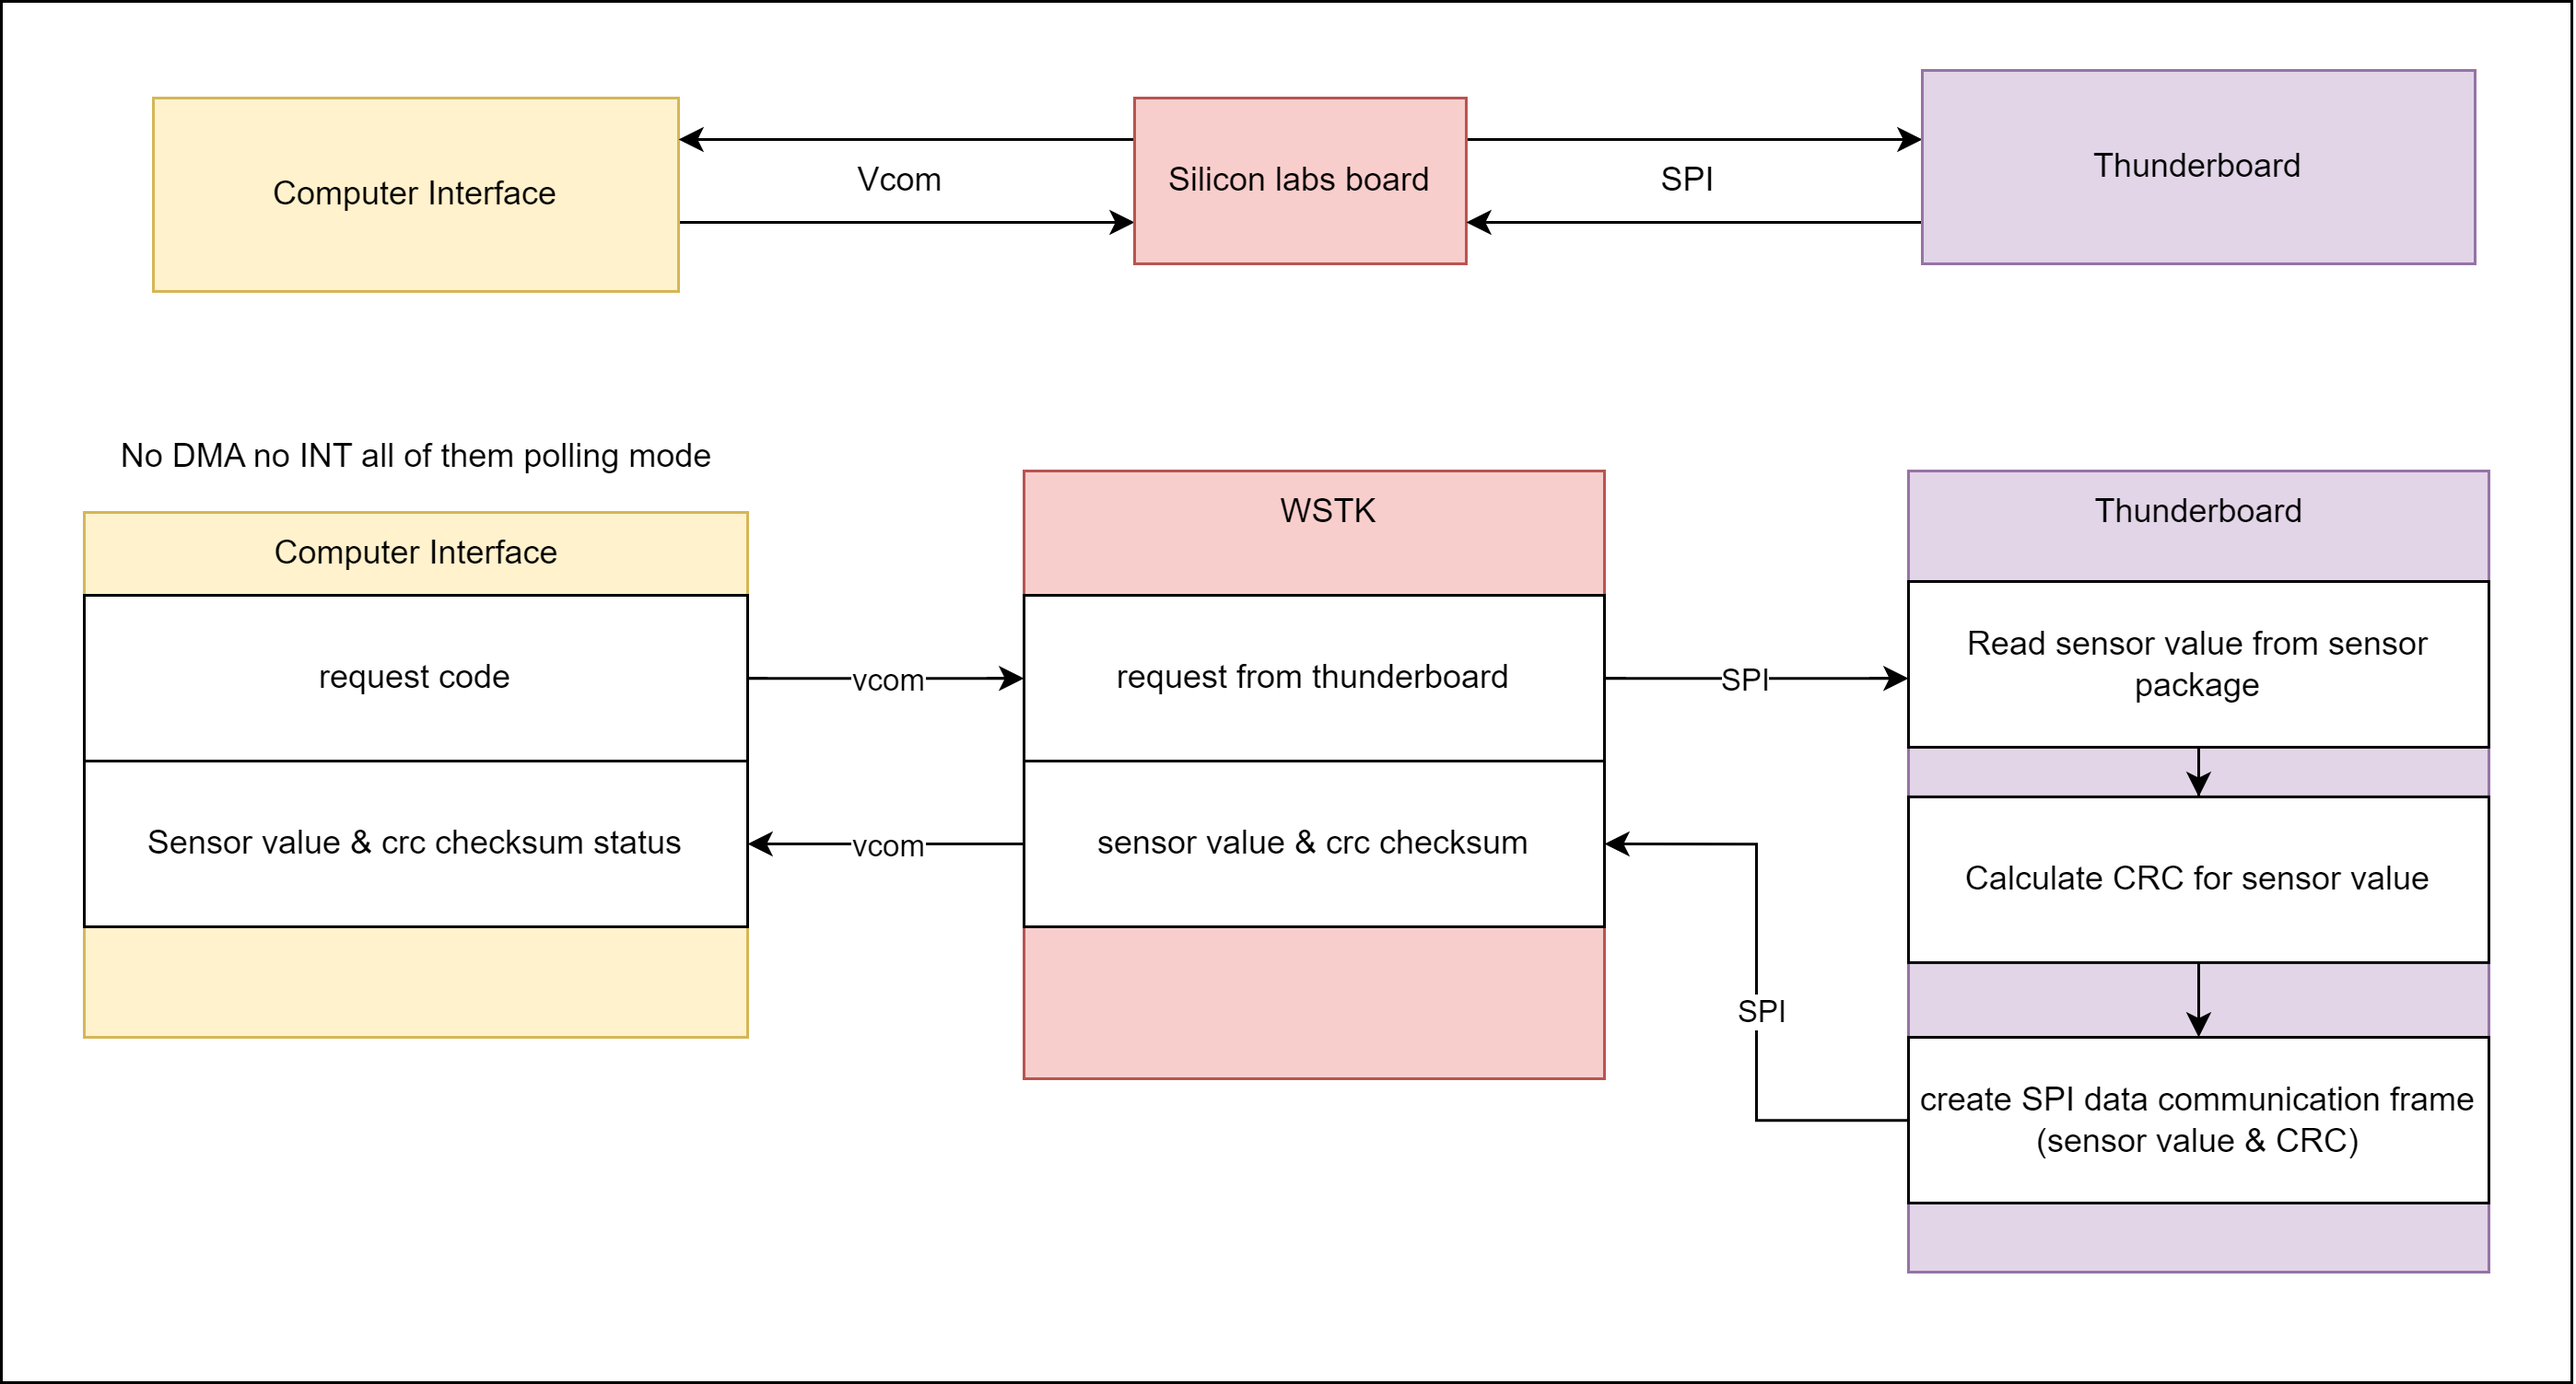
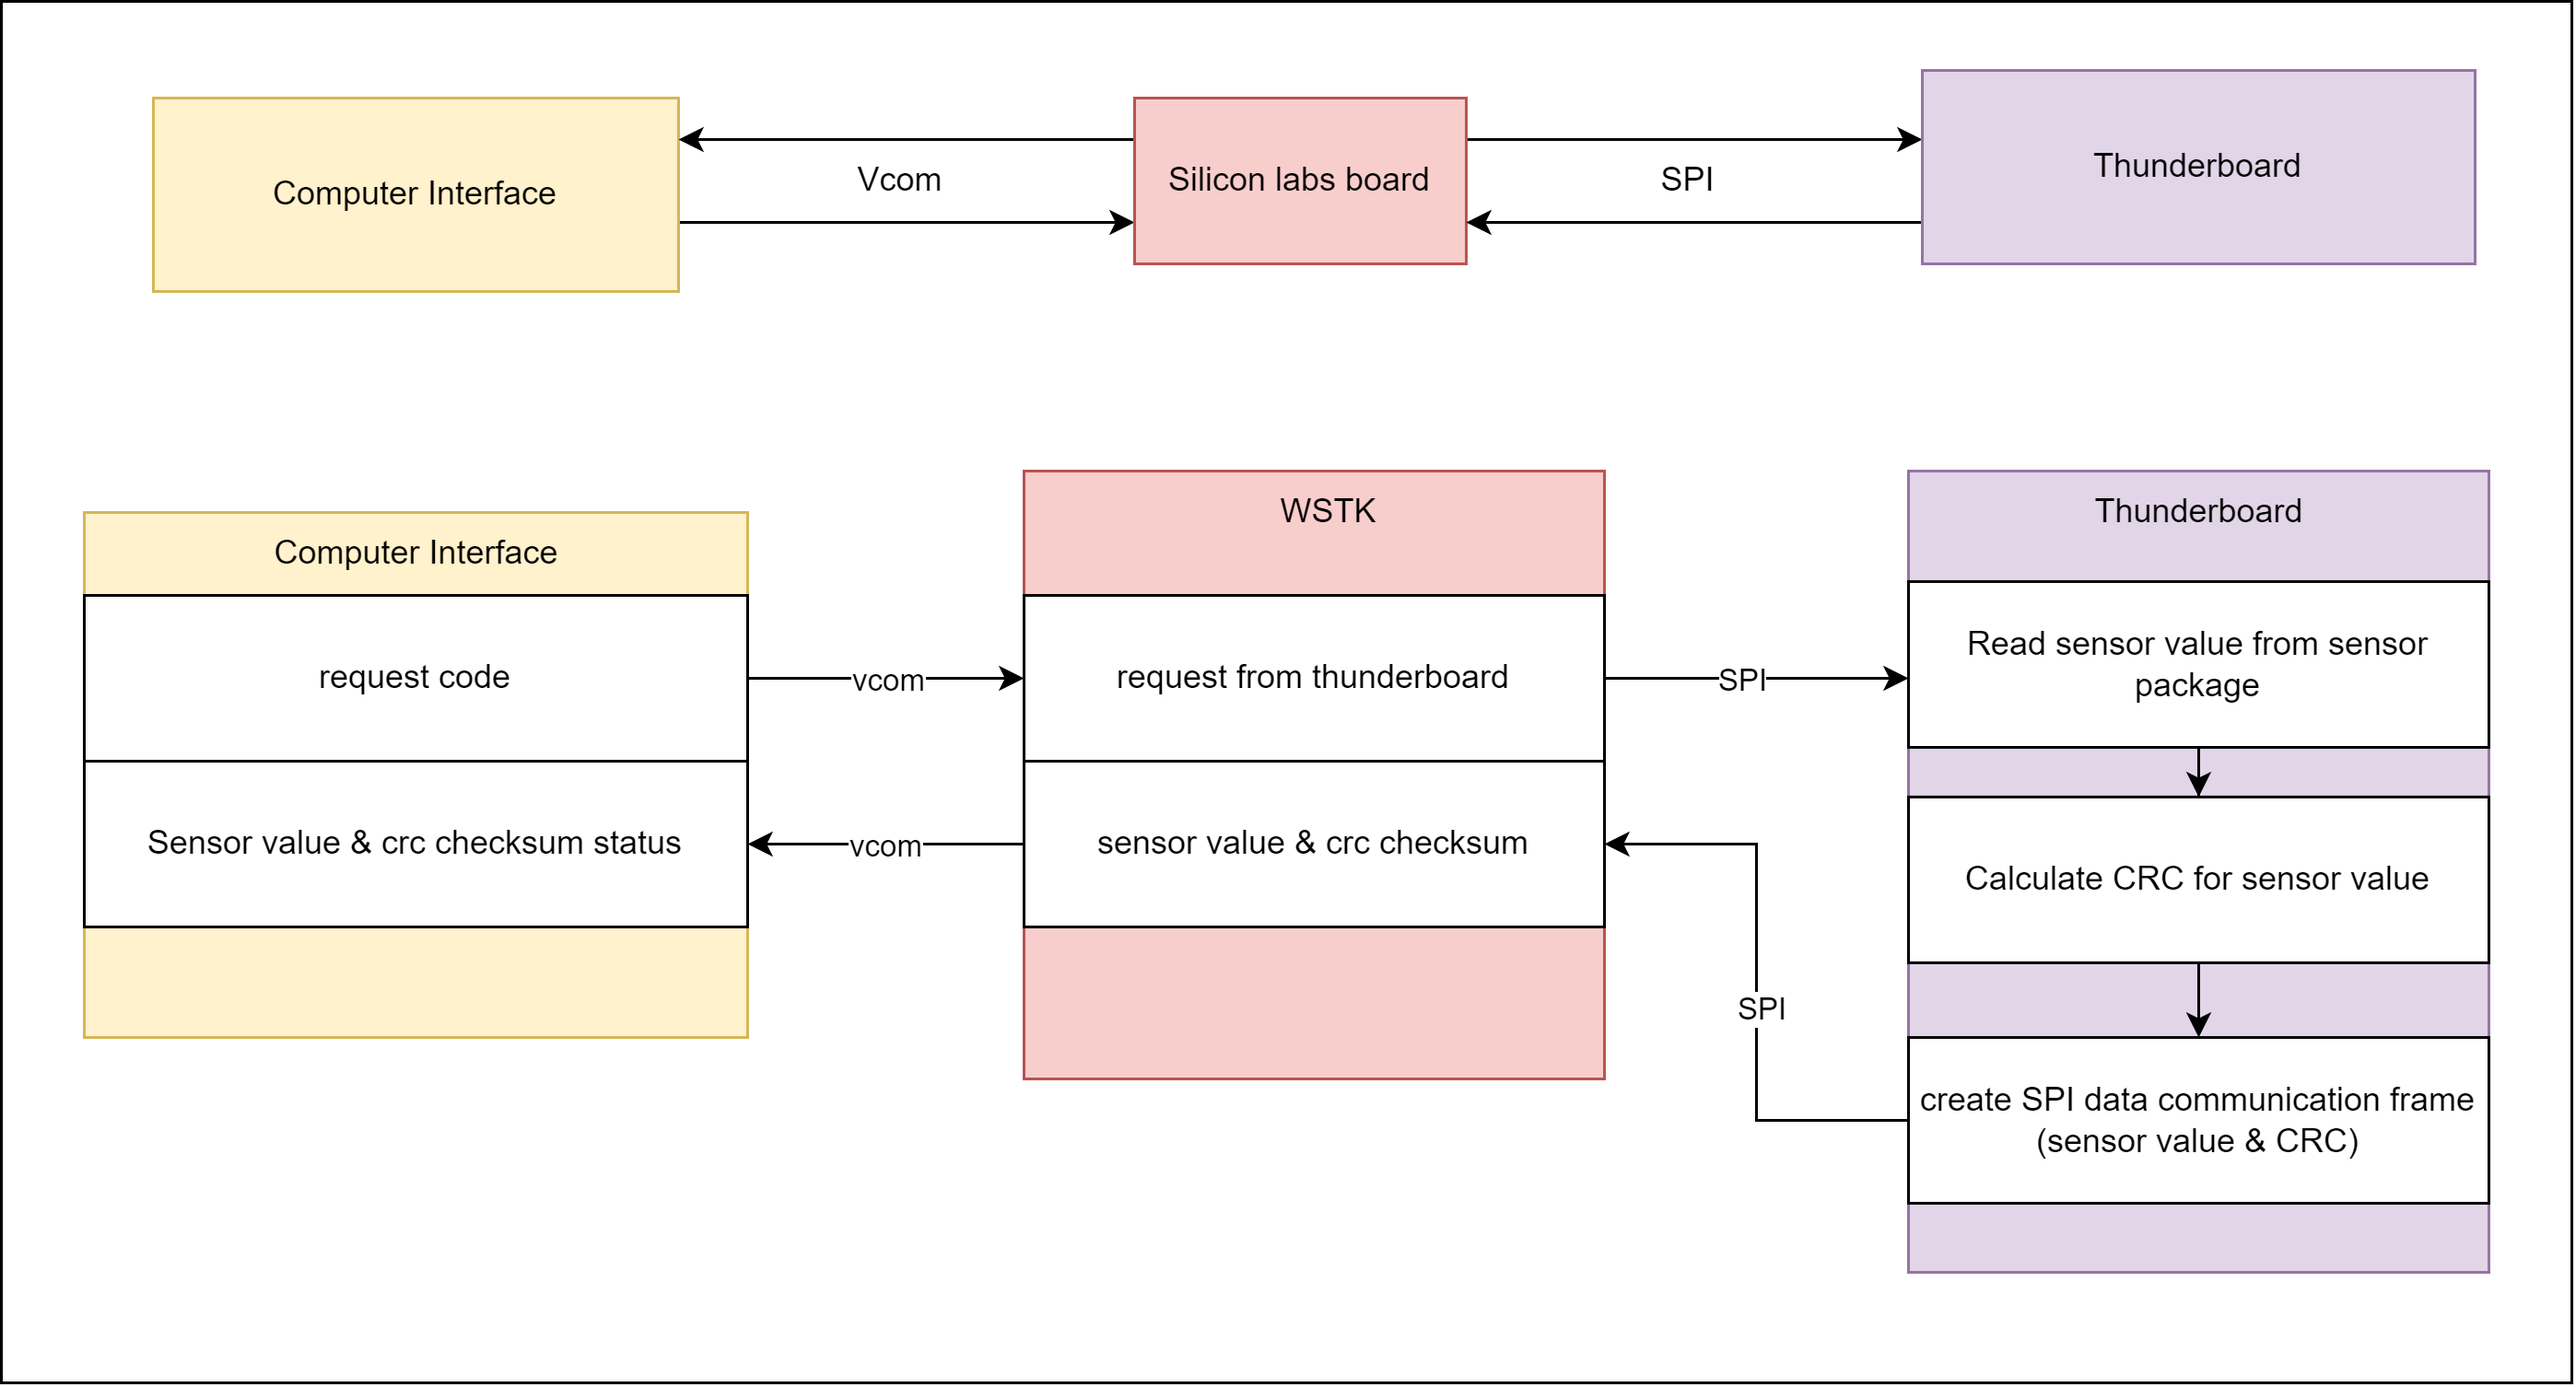
Added flow chart

diff --git a/spidrv_master_baremetal/lib/src/vcom.c b/spidrv_master_baremetal/lib/src/vcom.c
@@ -31,7 +31,7 @@ const char command_pres[] = "Pressure";
 const char command_data[] = "Data";
 
 /*******************************************************************************
- **************************   LOCAL FUNCTIONS   *******************************
+ **************************   LOCAL FUNCTIONS   ********************************
  ******************************************************************************/
 static void user_command_control(char *buffer, uint8_t len, bool *print_welcome);
 static void init_sensor(void);
@@ -88,8 +88,7 @@ void init_sensor(void)
 /*******************************************************************************
  * Ticking functions
  ******************************************************************************/
-    ****************************************************************************** /
-    void app_iostream_eusart_process_action(void)
+void app_iostream_eusart_process_action(void)
 {
   int8_t c = 0;
   static bool completed = false;

diff --git a/spidrv_slave_baremetal/lib/src/spidrv_slave_baremetal.c b/spidrv_slave_baremetal/lib/src/spidrv_slave_baremetal.c
@@ -105,10 +105,9 @@ void spidrv_app_process_action(void)
   Frame_t spi_frame;
   Ecode_t ecode;
 
-  /**
-   * first loop
-   */
+  // In the first loop, RX buffer is cleared to prevent the warning.
   static bool first_loop_flag = true;
+
   if (first_loop_flag)
   {
     clear_RX_buffer(&spi_frame);

diff --git a/README.md b/README.md
@@ -1,8 +1,14 @@
-#System data flow figure:
+# System data flow figure:
 ![System data flow figure](Diagrams/systemFlow_diagram.png)
-#SPI communication data frames:
+
+# SPI communication data frames:
 ![SPI communication data frames](Diagrams/dataSPI_frame.png)
-#SPI communication message types on the system
+
+# SPI communication message types on the system
 ![SPI communication message types on the system](Diagrams/communicationMessage_types.png)
-#Vcom port communication example
+
+# Simple Flow Chart
+![Simple Flow Chart](DrawIO/FlowChart/master_slave_flow_chart.png)
+
+# Vcom port communication example
 ![Vcom port communication example](Diagrams/vcomPort_messages.png)
